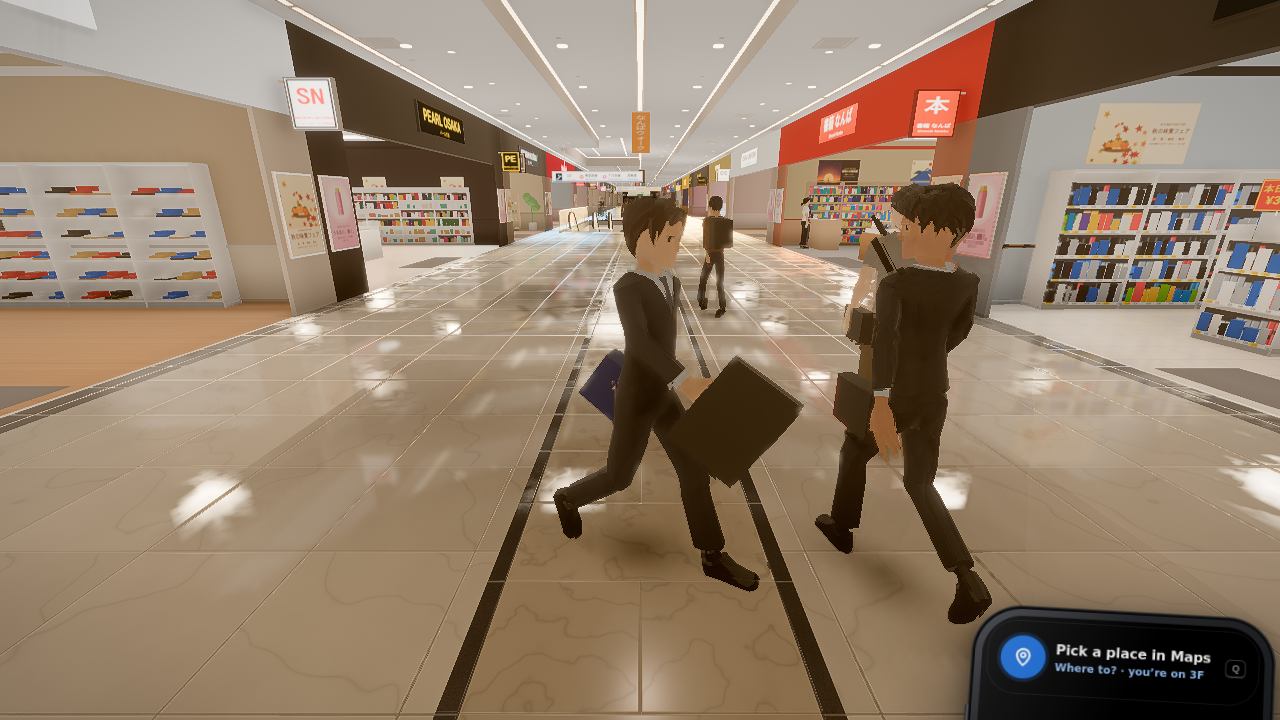
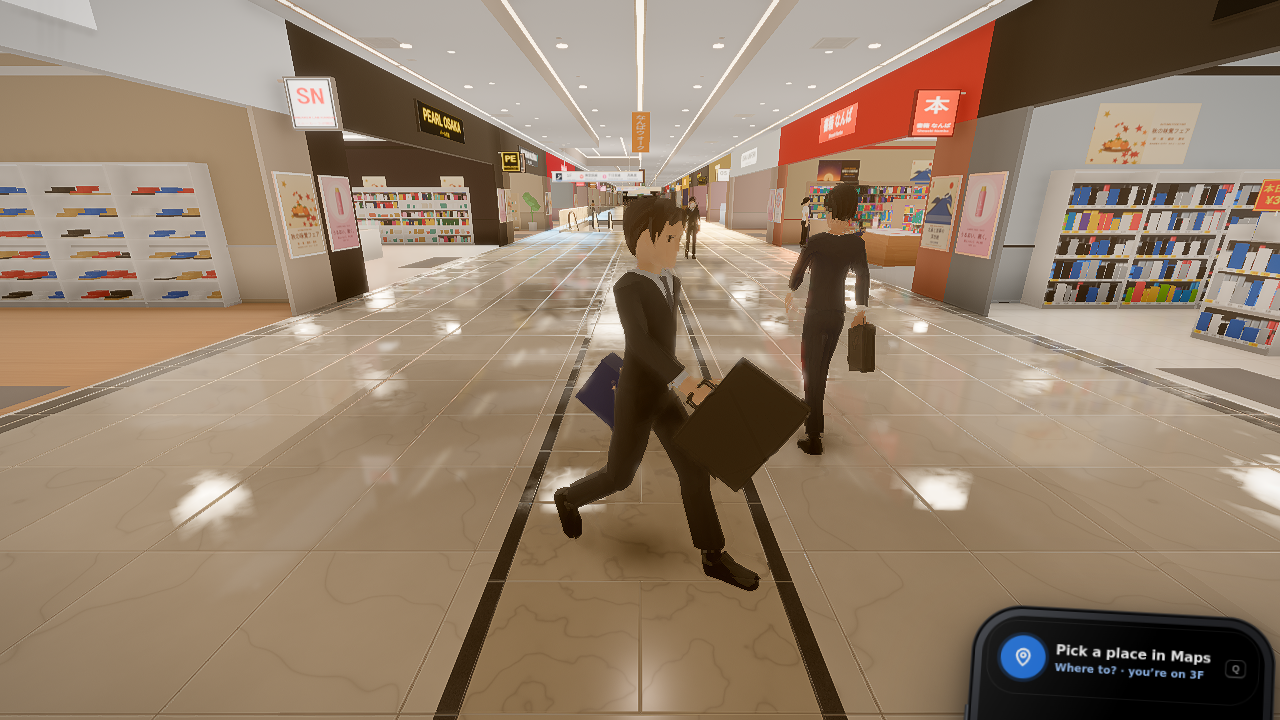
Lost in Namba v4 hotfix: real backpacks (bevelled, straps, muted colours, snug), slim briefcases, paper shopping bags
Claude-Session: https://claude.ai/code/session_01DFPWmVZjWP3RarZo2JLFjj

diff --git a/namba-demo/js/npc/humans.js b/namba-demo/js/npc/humans.js
@@ -25,10 +25,11 @@
 import * as THREE from 'three';
 import { GLTFLoader } from 'three/addons/loaders/GLTFLoader.js';
 import { clone as skClone } from 'three/addons/utils/SkeletonUtils.js';
+import { RoundedBoxGeometry } from 'three/addons/geometries/RoundedBoxGeometry.js';
 import { BIT } from './looks.js';
 import { ESC_STAND_SIDE } from './sim.js';
 
-export const TINT = { KEEP: 0, SKIN: 1, HAIR: 2, TOP: 3, BOTTOM: 4, SHOES: 5, INNER: 6, ACC: 7, ACC2: 8 };
+export const TINT = { KEEP: 0, SKIN: 1, HAIR: 2, TOP: 3, BOTTOM: 4, SHOES: 5, INNER: 6, ACC: 7, ACC2: 8, PACK: 9, CASE: 10, CORD: 11 };
 const MAX_MATS = 24;
 const FPS = 30;
 const BASE = new URL('../../assets/humans/', import.meta.url).href;
@@ -107,7 +108,7 @@ export class HumanLibrary {
     // procedural clips
     this._procClips(rig);
     // accessory parts (need the idle pose)
-    const acc = this._accessories(rig);
+    const acc = this._accessories(rig, meshes);
     // outfits
     for (const name of VARIANTS[g]) {
       const m0 = meshes[name]; if (!m0) continue;
@@ -384,7 +385,7 @@ export class HumanLibrary {
 
   // ---------------------------------------------------------------------------
   // accessory parts, authored in model space around the idle pose, converted to bind space
-  _accessories(rig) {
+  _accessories(rig, meshes = {}) {
     const S = rig.sampler, B = S.by;
     // v4 ROOT CAUSE of "phone not in the hand": the last procedural clip ('ride', which bends the right arm onto the handrail) left
     // the sampler in its pose; _pose() then saw "idle at t=0 == last evaluated value" and did not rewrite the arm, so every
@@ -401,12 +402,31 @@ export class HumanLibrary {
     this._pose(rig, rig.clips.idle, 0);
     const parts = [];
     const box = (bit, bone, mat, cx, cy, cz, sx, sy, sz, rx = 0, ry = 0, rz = 0) => parts.push({ bit, bone, mat, g: new THREE.BoxGeometry(sx, sy, sz), c: [cx, cy, cz], r: [rx, ry, rz] });
+    // bevelled box (108 tris): bags read as soft goods, not crates
+    const rbox = (bit, bone, mat, cx, cy, cz, sx, sy, sz, rad, rx = 0, ry = 0, rz = 0) => parts.push({ bit, bone, mat, g: new RoundedBoxGeometry(sx, sy, sz, 1, rad), c: [cx, cy, cz], r: [rx, ry, rz] });
+    const body = this._bodyPts(rig, meshes);
     const cyl = (bit, bone, mat, cx, cy, cz, r, h) => parts.push({ bit, bone, mat, g: new THREE.CylinderGeometry(r, r * 0.85, h, 8), c: [cx, cy, cz], r: [0, 0, 0] });
     const A = ACC_IDX;
-    // hands
-    box(BIT.BRIEFCASE, 'WristR', A.acc, hR.x - 0.02, hR.y - 0.19, hR.z, 0.085, 0.3, 0.4);
-    box(BIT.SHOPBAG, 'WristL', A.acc2, hL.x + 0.03, hL.y - 0.21, hL.z, 0.11, 0.32, 0.3);
-    box(BIT.SHOPBAG2, 'WristR', A.acc2, hR.x - 0.03, hR.y - 0.2, hR.z, 0.1, 0.28, 0.26);
+    // hands (v4 hotfix: real proportions; the old ones were plain crates)
+    // briefcase ~0.42 x 0.31 x 0.07, hanging from a small handle in the right hand, long side along the walk
+    const bcTop = hR.y - 0.06;
+    rbox(BIT.BRIEFCASE, 'WristR', A.case, hR.x - 0.015, bcTop - 0.155, hR.z, 0.07, 0.31, 0.42, 0.012);
+    box(BIT.BRIEFCASE, 'WristR', A.dark, hR.x - 0.015, hR.y - 0.012, hR.z, 0.018, 0.016, 0.12);
+    for (const dz of [-0.052, 0.052]) box(BIT.BRIEFCASE, 'WristR', A.dark, hR.x - 0.015, (hR.y - 0.012 + bcTop) / 2, hR.z + dz, 0.016, hR.y - 0.012 - bcTop, 0.016);
+    // paper shopping bags ~0.30 x 0.32 x 0.12 with two thin cord handles up to the hand
+    const paperBag = (bit, bone, h, sx) => {
+      const top = h.y - 0.09;
+      box(bit, bone, A.acc2, h.x + sx * 0.035, top - 0.16, h.z, 0.12, 0.32, 0.30);
+      box(bit, bone, A.acc2, h.x + sx * 0.035, top - 0.004, h.z, 0.124, 0.012, 0.304);   // folded rim
+      for (const dx of [-0.045, 0.045]) for (const dz of [-1, 1]) {
+        // each cord rises from the rim (z +-5.5 cm) to the fist (z +-1.2 cm): a tilted thin bar
+        const x0 = h.x + sx * 0.035 + dx * 0.6, z0 = h.z + dz * 0.055, z1 = h.z + dz * 0.012, y1 = h.y - 0.005;
+        const len = Math.hypot(y1 - top, z1 - z0);
+        box(bit, bone, A.cord, x0, (top + y1) / 2, (z0 + z1) / 2, 0.007, len, 0.007, -dz * Math.atan2(z0 * dz - z1 * dz, y1 - top), 0, 0);
+      }
+    };
+    paperBag(BIT.SHOPBAG, 'WristL', hL, 1);
+    paperBag(BIT.SHOPBAG2, 'WristR', hR, -1);
     // v4 critic: the phone sat 5 mm off the hand's centre line, i.e. INSIDE the 3 cm-thick hand mesh, so it never showed. Hold it
     // against the palm (the palm faces the body's midline in the idle pose the parts are authored in), a bit proud of the fingers.
     // v4 hotfix: with the box's long side ALONG the fingers the whole phone hid behind the (mitten) hand in every phone pose, and
@@ -421,7 +441,25 @@ export class HumanLibrary {
     box(BIT.SHOULDERBAG, 'Hips', A.acc, hips.x + 0.21, hips.y + 0.04, hips.z + 0.03, 0.08, 0.22, 0.28);
     box(BIT.SHOULDERBAG, 'Chest', A.acc, chest.x, chest.y + 0.02, chest.z + chestZ + 0.01, 0.035, 0.62, 0.012, 0, 0, -0.62);
     box(BIT.TOTE, 'ShoulderL', A.acc, hips.x + 0.25, hips.y + 0.12, hips.z - 0.02, 0.1, 0.36, 0.33);
-    box(BIT.BACKPACK, 'Chest', A.acc, chest.x, chest.y - 0.06, chest.z - 0.22, 0.32, 0.42, 0.17);
+    // backpack (v4 hotfix): ~0.28 x 0.38 x 0.12 bevelled body snug on the back (measured back surface), front pocket, top grab
+    // loop, and two shoulder straps that run over the shoulders and down the chest; muted palette colour (TINT.PACK)
+    {
+      const cy = chest.y - 0.07, back = body.back(chest.x, cy - 0.12, cy + 0.12, 0.12, chest.z - 0.13) - 0.004;
+      rbox(BIT.BACKPACK, 'Chest', A.pack, chest.x, cy, back - 0.06, 0.28, 0.38, 0.12, 0.035);
+      rbox(BIT.BACKPACK, 'Chest', A.pack, chest.x, cy - 0.085, back - 0.12 - 0.018, 0.21, 0.15, 0.045, 0.018);
+      box(BIT.BACKPACK, 'Chest', A.dark, chest.x, cy - 0.012, back - 0.163, 0.17, 0.008, 0.006);   // pocket zip
+      // straps: a chain of thin bars hugging the measured surface: chest -> collarbone -> over the trapezius -> down to the pack top
+      const bar = (y0, z0, y1, z1, x) => { const dy = y1 - y0, dz = z1 - z0; box(BIT.BACKPACK, 'Chest', A.pack, x, (y0 + y1) / 2, (z0 + z1) / 2, 0.042, Math.hypot(dy, dz) + 0.01, 0.01, Math.atan2(dz, dy), 0, 0); };
+      for (const sd of [-1, 1]) {
+        const x = chest.x + sd * 0.105;
+        const top = body.top(x, chest.y + 0.02, chest.y + 0.32, chest.y + 0.18) + 0.005;
+        const yF0 = chest.y - 0.13, yF1 = top - 0.035;
+        const zF0 = body.front(x, yF0, chest.z + 0.1) + 0.006, zF1 = body.front(x, yF1, chest.z + 0.06) + 0.006;
+        const zB1 = body.back(x, yF1 - 0.03, yF1 + 0.03, 0.02, chest.z - 0.08) - 0.006;
+        const zT = (zF1 + zB1) / 2, yB0 = cy + 0.17, zB0 = back - 0.012;
+        bar(yF0, zF0, yF1, zF1, x); bar(yF1, zF1, top, zT, x); bar(top, zT, yF1, zB1, x); bar(yF1, zB1, yB0, zB0, x);
+      }
+    }
     box(BIT.CART, 'Root', A.acc, 0, 0.5, 0.78, 0.5, 0.86, 0.62);
     box(BIT.CART, 'Root', A.dark, 0, 0.98, 0.5, 0.48, 0.035, 0.035);
     box(BIT.SUITCASE, 'Root', A.acc2, hC.x + 0.04, 0.33, hC.z - 0.2, 0.22, 0.56, 0.38, 0.25, 0, 0);
@@ -438,7 +476,7 @@ export class HumanLibrary {
     const mInv = new THREE.Matrix4(), mOne = new THREE.Matrix4(), e = new THREE.Euler();
     for (const p of parts) {
       const bi = rig.boneIdx[p.bone]; if (bi === undefined) continue;
-      const g = p.g.toNonIndexed(); g.deleteAttribute('uv');
+      const g = p.g.index ? p.g.toNonIndexed() : p.g; g.deleteAttribute('uv');   // RoundedBoxGeometry is already non-indexed
       g.rotateX(p.r[0]); g.rotateY(p.r[1]); g.rotateZ(p.r[2]);
       g.translate(p.c[0], p.c[1], p.c[2]);
       mOne.multiplyMatrices(S.bones[bi].matrixWorld, rig.boneInverses[bi]);
@@ -448,6 +486,32 @@ export class HumanLibrary {
     }
     S.mixer.stopAllAction(); S.cur = null;
     return out;
+  }
+  // Idle-pose body surface samples (every non-backpacker outfit, each vertex moved by its dominant bone; hair / head excluded),
+  // used to put straps and packs ON the clothes: back(x, y0, y1, halfWidth) = rearmost z, front(x, y) = foremost z,
+  // top(x, y0, y1) = highest point (shoulder line). Fallbacks when nothing is found.
+  _bodyPts(rig, meshes) {
+    const S = rig.sampler, pts = [];
+    const mats = S.bones.map((b, i) => new THREE.Matrix4().multiplyMatrices(b.matrixWorld, rig.boneInverses[i]));
+    const skipB = new Set(['Head', 'Neck'].map(n => rig.boneIdx[n]).filter(i => i !== undefined));
+    const v = new THREE.Vector3();
+    for (const name of VARIANTS[rig.g] || []) {
+      const m = meshes[name]; if (!m || name.endsWith('Backpacker')) continue;
+      const P = m.geometry.attributes.position, I = m.geometry.attributes.skinIndex, W = m.geometry.attributes.skinWeight;
+      for (let i = 0; i < P.count; i++) {
+        let bi = I.getX(i), bw = W.getX(i);
+        for (const k of [1, 2, 3]) { const w = W.getComponent(i, k); if (w > bw) { bw = w; bi = I.getComponent(i, k); } }
+        if (skipB.has(bi)) continue;
+        v.fromBufferAttribute(P, i).applyMatrix4(mats[bi]);
+        pts.push(v.x, v.y, v.z);
+      }
+    }
+    const scan = (test, pick, init) => { let r = init; for (let i = 0; i < pts.length; i += 3) if (test(pts[i], pts[i + 1], pts[i + 2])) r = pick(r, pts[i], pts[i + 1], pts[i + 2]); return r; };
+    return {
+      back: (x, y0, y1, hw, fb) => { const r = scan((px, py) => Math.abs(px - x) < hw && py > y0 && py < y1, (r, px, py, pz) => Math.min(r, pz), Infinity); return isFinite(r) ? r : fb; },
+      front: (x, y, fb) => { const r = scan((px, py) => Math.abs(px - x) < 0.025 && Math.abs(py - y) < 0.04, (r, px, py, pz) => Math.max(r, pz), -Infinity); return isFinite(r) ? r : fb; },
+      top: (x, y0, y1, fb) => { const r = scan((px, py, pz) => Math.abs(px - x) < 0.02 && py > y0 && py < y1 && Math.abs(pz) < 0.06, (r, px, py) => Math.max(r, py), -Infinity); return isFinite(r) ? r : fb; },
+    };
   }
   // how far the body surface sits in front of the bone column at height y (bind mesh, rough)
   _frontZ(rig, y, head = false) {
@@ -531,8 +595,11 @@ const ACC_MATS = [
   { name: 'white', color: '#e9e9e6', tint: TINT.KEEP },
   { name: 'cup', color: '#efe9df', tint: TINT.KEEP },
   { name: 'phone', color: '#8e949c', tint: TINT.KEEP },
+  { name: 'pack', color: '#3a3f48', tint: TINT.PACK },     // backpack: muted palette pick (shader crowdColour)
+  { name: 'case', color: '#2b1c13', tint: TINT.CASE },     // briefcase: black / dark brown leather
+  { name: 'cord', color: '#3a2a1e', tint: TINT.CORD },     // paper-bag handles: contrast with the bag
 ];
-const ACC_IDX = { acc: 0, acc2: 1, dark: 2, white: 3, cup: 4, phone: 5 };
+const ACC_IDX = { acc: 0, acc2: 1, dark: 2, white: 3, cup: 4, phone: 5, pack: 6, case: 7, cord: 8 };
 
 function clamp01(x) { return x < 0 ? 0 : x > 1 ? 1 : x; }
 function smooth(x) { return x * x * (3 - 2 * x); }
@@ -564,6 +631,23 @@ vec3 crowdColour(vec4 cA, vec4 cB) {
   if (t == 5) return crowdUnpack(cA.z);
   if (t == 6) return crowdUnpack(cB.y);
   if (t == 7) return crowdUnpack(cB.z);
+  if (t >= 9) {
+    // per-person pick from a small palette (stable: hashed from the person's colours)
+    float h = fract(cA.x * 0.000131 + cB.x * 0.000097 + cA.w * 0.000071 + cA.y * 0.000053);
+    vec3 a = crowdUnpack(cB.z);
+    if (t == 9) {   // backpack: keep a clearly coloured bag (tourist red ...), else navy / olive / grey / beige / slate
+      if (max(a.r, max(a.g, a.b)) - min(a.r, min(a.g, a.b)) > 0.06) return a * 0.8;
+      int k = int(h * 5.0);
+      vec3 c = k == 0 ? vec3(0.165, 0.204, 0.314) : k == 1 ? vec3(0.31, 0.325, 0.22) : k == 2 ? vec3(0.36, 0.37, 0.39) : k == 3 ? vec3(0.63, 0.56, 0.45) : vec3(0.2, 0.24, 0.27);
+      return pow(c, vec3(2.2));
+    }
+    if (t == 10) {  // briefcase: the person's bag colour if it is dark, else black or dark brown leather
+      if (dot(a, vec3(0.2126, 0.7152, 0.0722)) < 0.05) return a;
+      return h < 0.5 ? vec3(0.0075) : pow(vec3(0.24, 0.15, 0.09), vec3(2.2));
+    }
+    vec3 b = crowdUnpack(cB.w);   // 11: paper-bag cord, contrasting with the bag
+    return dot(b, vec3(0.2126, 0.7152, 0.0722)) > 0.2 ? pow(vec3(0.3, 0.22, 0.15), vec3(2.2)) : vec3(0.75, 0.73, 0.68);
+  }
   return crowdUnpack(cB.w);
 }
 // v4 hotfix ROOT CAUSE of "no phone / bag / briefcase on anybody": the old code did int(crMask + 0.5). crMask is 0xffffff

diff --git a/namba-demo/notes/v4-hotfix.md b/namba-demo/notes/v4-hotfix.md
@@ -129,3 +129,19 @@ at 9 with p90 20 s (stairs are single-file at the mouth in the sim). Not near th
 * Scripts (scratchpad, not in the repo): `maskrepro.mjs` (GPU repro), `acc.mjs` (staged accessory shots, `BEFORE=1` serves the
   git-HEAD `humans.js`), `lunch.mjs` (browser lunch count), `diag.mjs` (who boards `esc_city_b_1`), `scen.sh` (all flowprobe
   scenarios against a HEAD copy and the working tree).
+
+## 3. Accessory refinement (lead follow-up, `humans.js` only)
+
+Now that they render, the boxes were replaced with proportioned, still cheap shapes (merged into the same instanced/skinned mesh):
+* **Backpack** 0.28 × 0.38 × 0.12 bevelled body (`RoundedBoxGeometry`, 1 segment, 108 tris) placed on the **measured** back surface
+  (`_bodyPts`: idle-pose body vertices of every non-backpacker outfit, dominant-bone skinned, head/hair excluded), a bevelled front
+  pocket with a zip line, and two shoulder straps built as a chain of thin bars that follow the measured chest / shoulder-top /
+  back surface. Colour `TINT.PACK`: keeps a clearly coloured bag (tourist red), otherwise a per-person pick of navy / olive / grey /
+  beige / slate (hashed from the look colours) — no more pure-black crates.
+* **Briefcase** 0.42 × 0.31 × 0.07 bevelled, hanging from a small handle (grip + two posts) in the fist; `TINT.CASE` = the
+  person's bag colour if dark, else black or dark-brown leather.
+* **Paper shopping bags** 0.30 × 0.32 × 0.12 with a folded rim and two thin cord handles rising to the fist; body keeps the
+  brand / paper tint (`acc2`), cords contrast with it (`TINT.CORD`).
+* Cost: backpack ~290 tris, briefcase ~150, paper bag ~84 per bag (old: 12 each); 3 more colour-table entries (max 23 / 24).
+Shots (re-taken): `bags_near.png`, `bags_far.png`, `phones_near.png`, `phones_far.png`, `closeup_*` incl. `closeup_backpack_side.png`,
+`closeup_backpack_back.png`, `closeup_paperbags.png`. 0 console errors; loadprobe READY 7.6 s (two runs right after a long shot session read 38–39 s, all in "Drawing the first frame": SwiftShader variance on this box, not the build).
